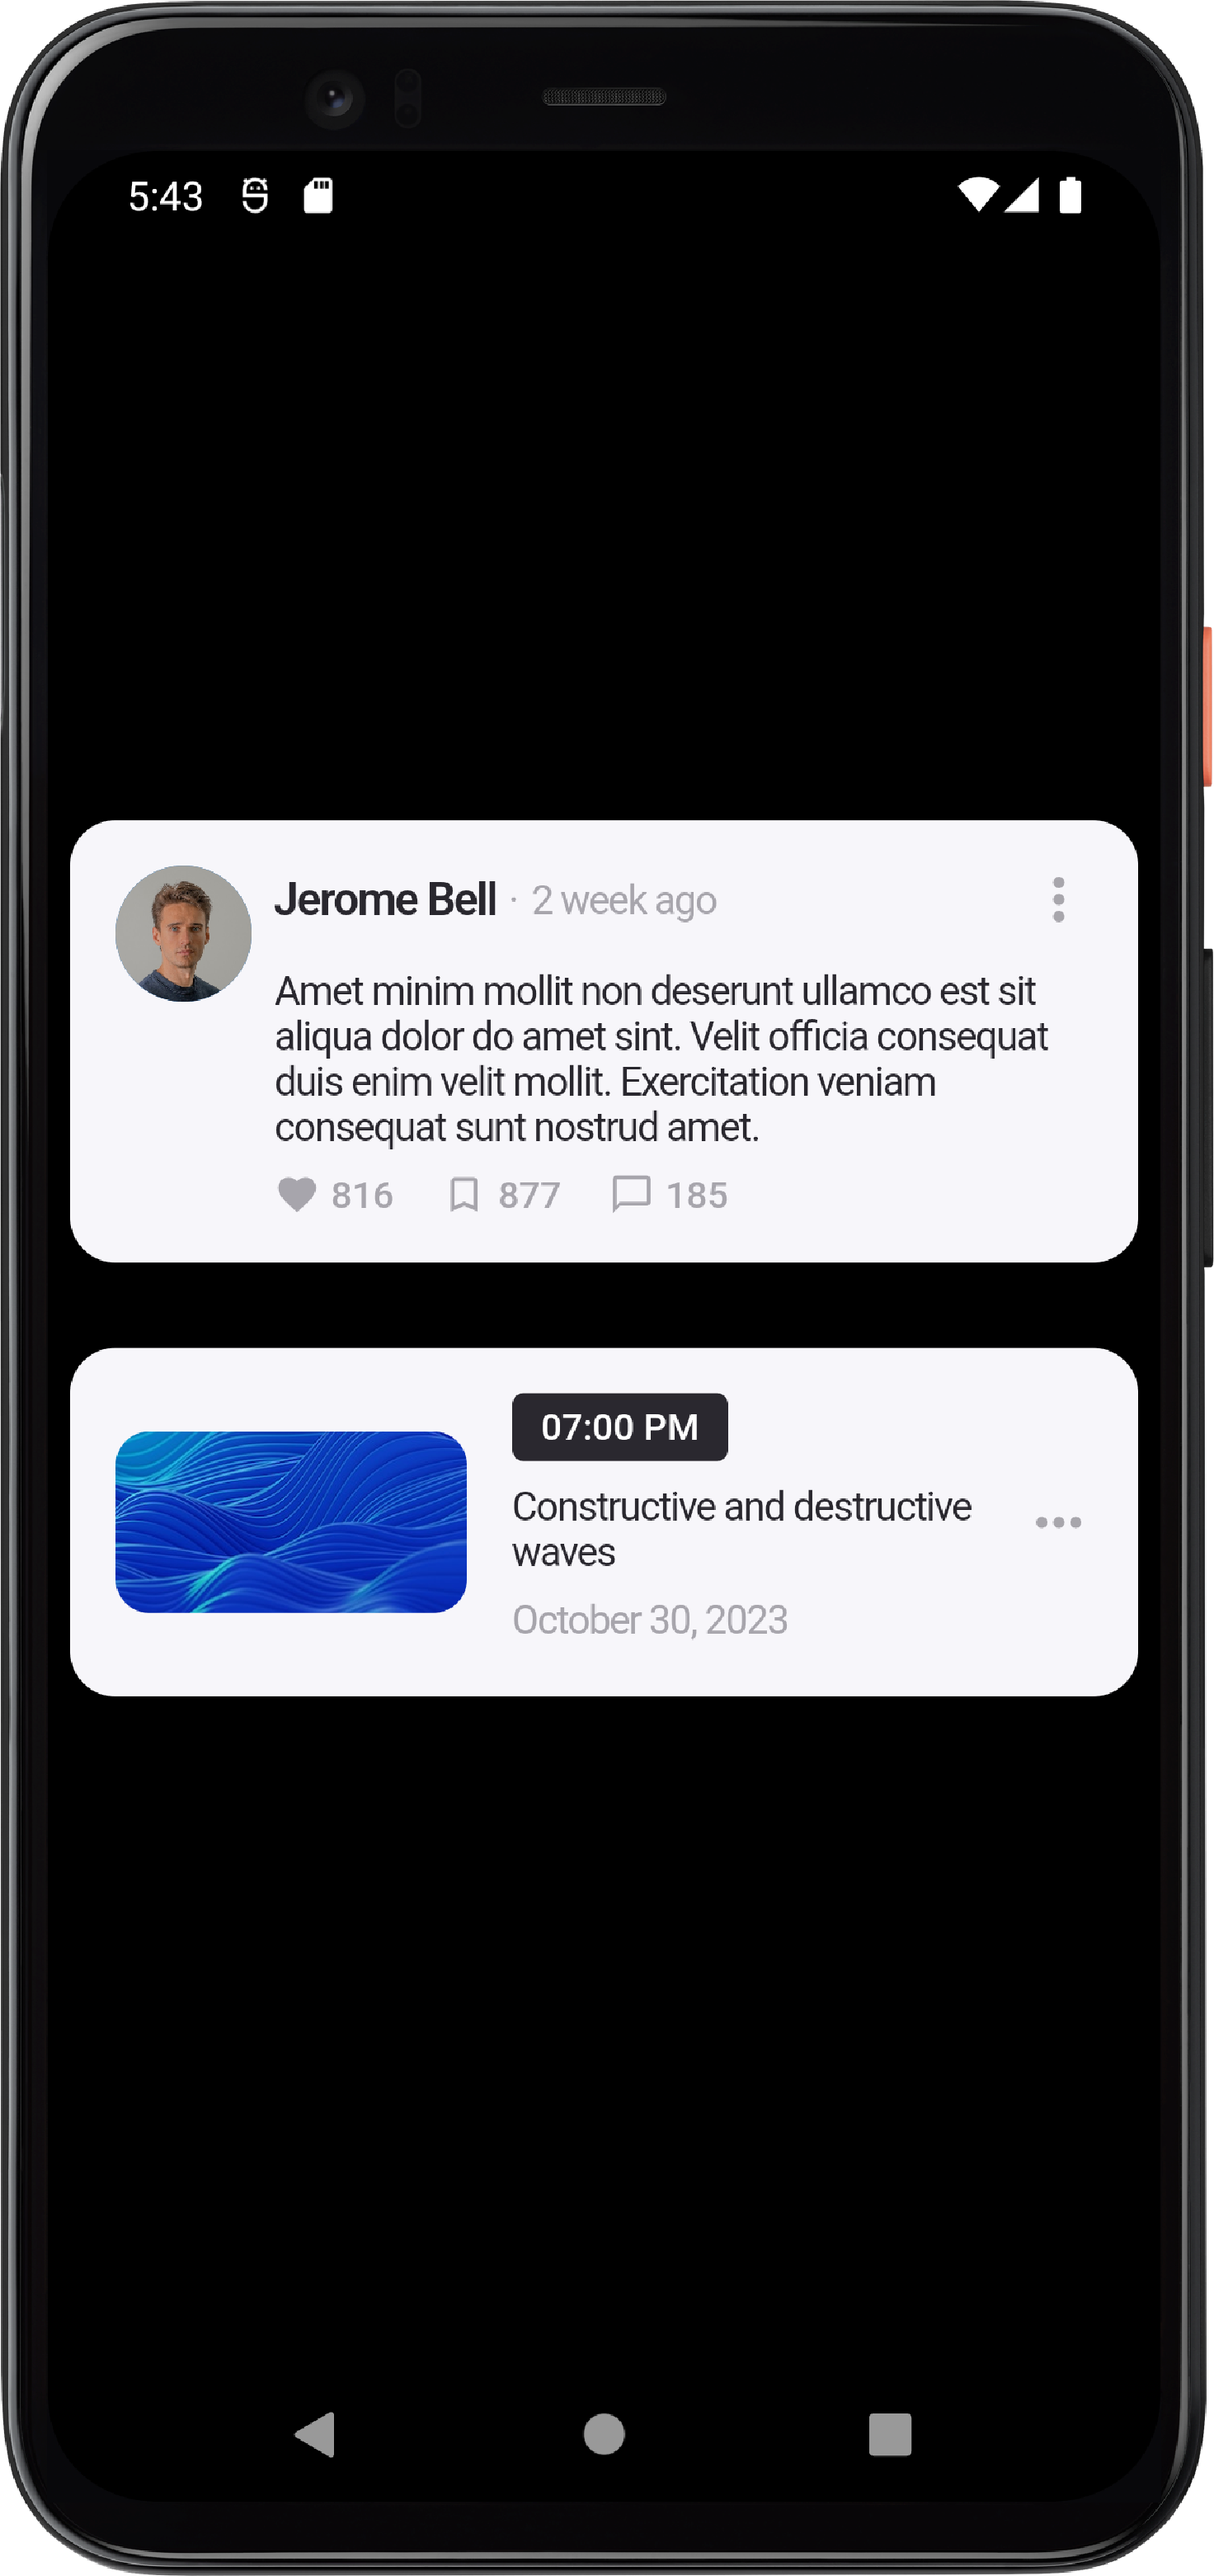
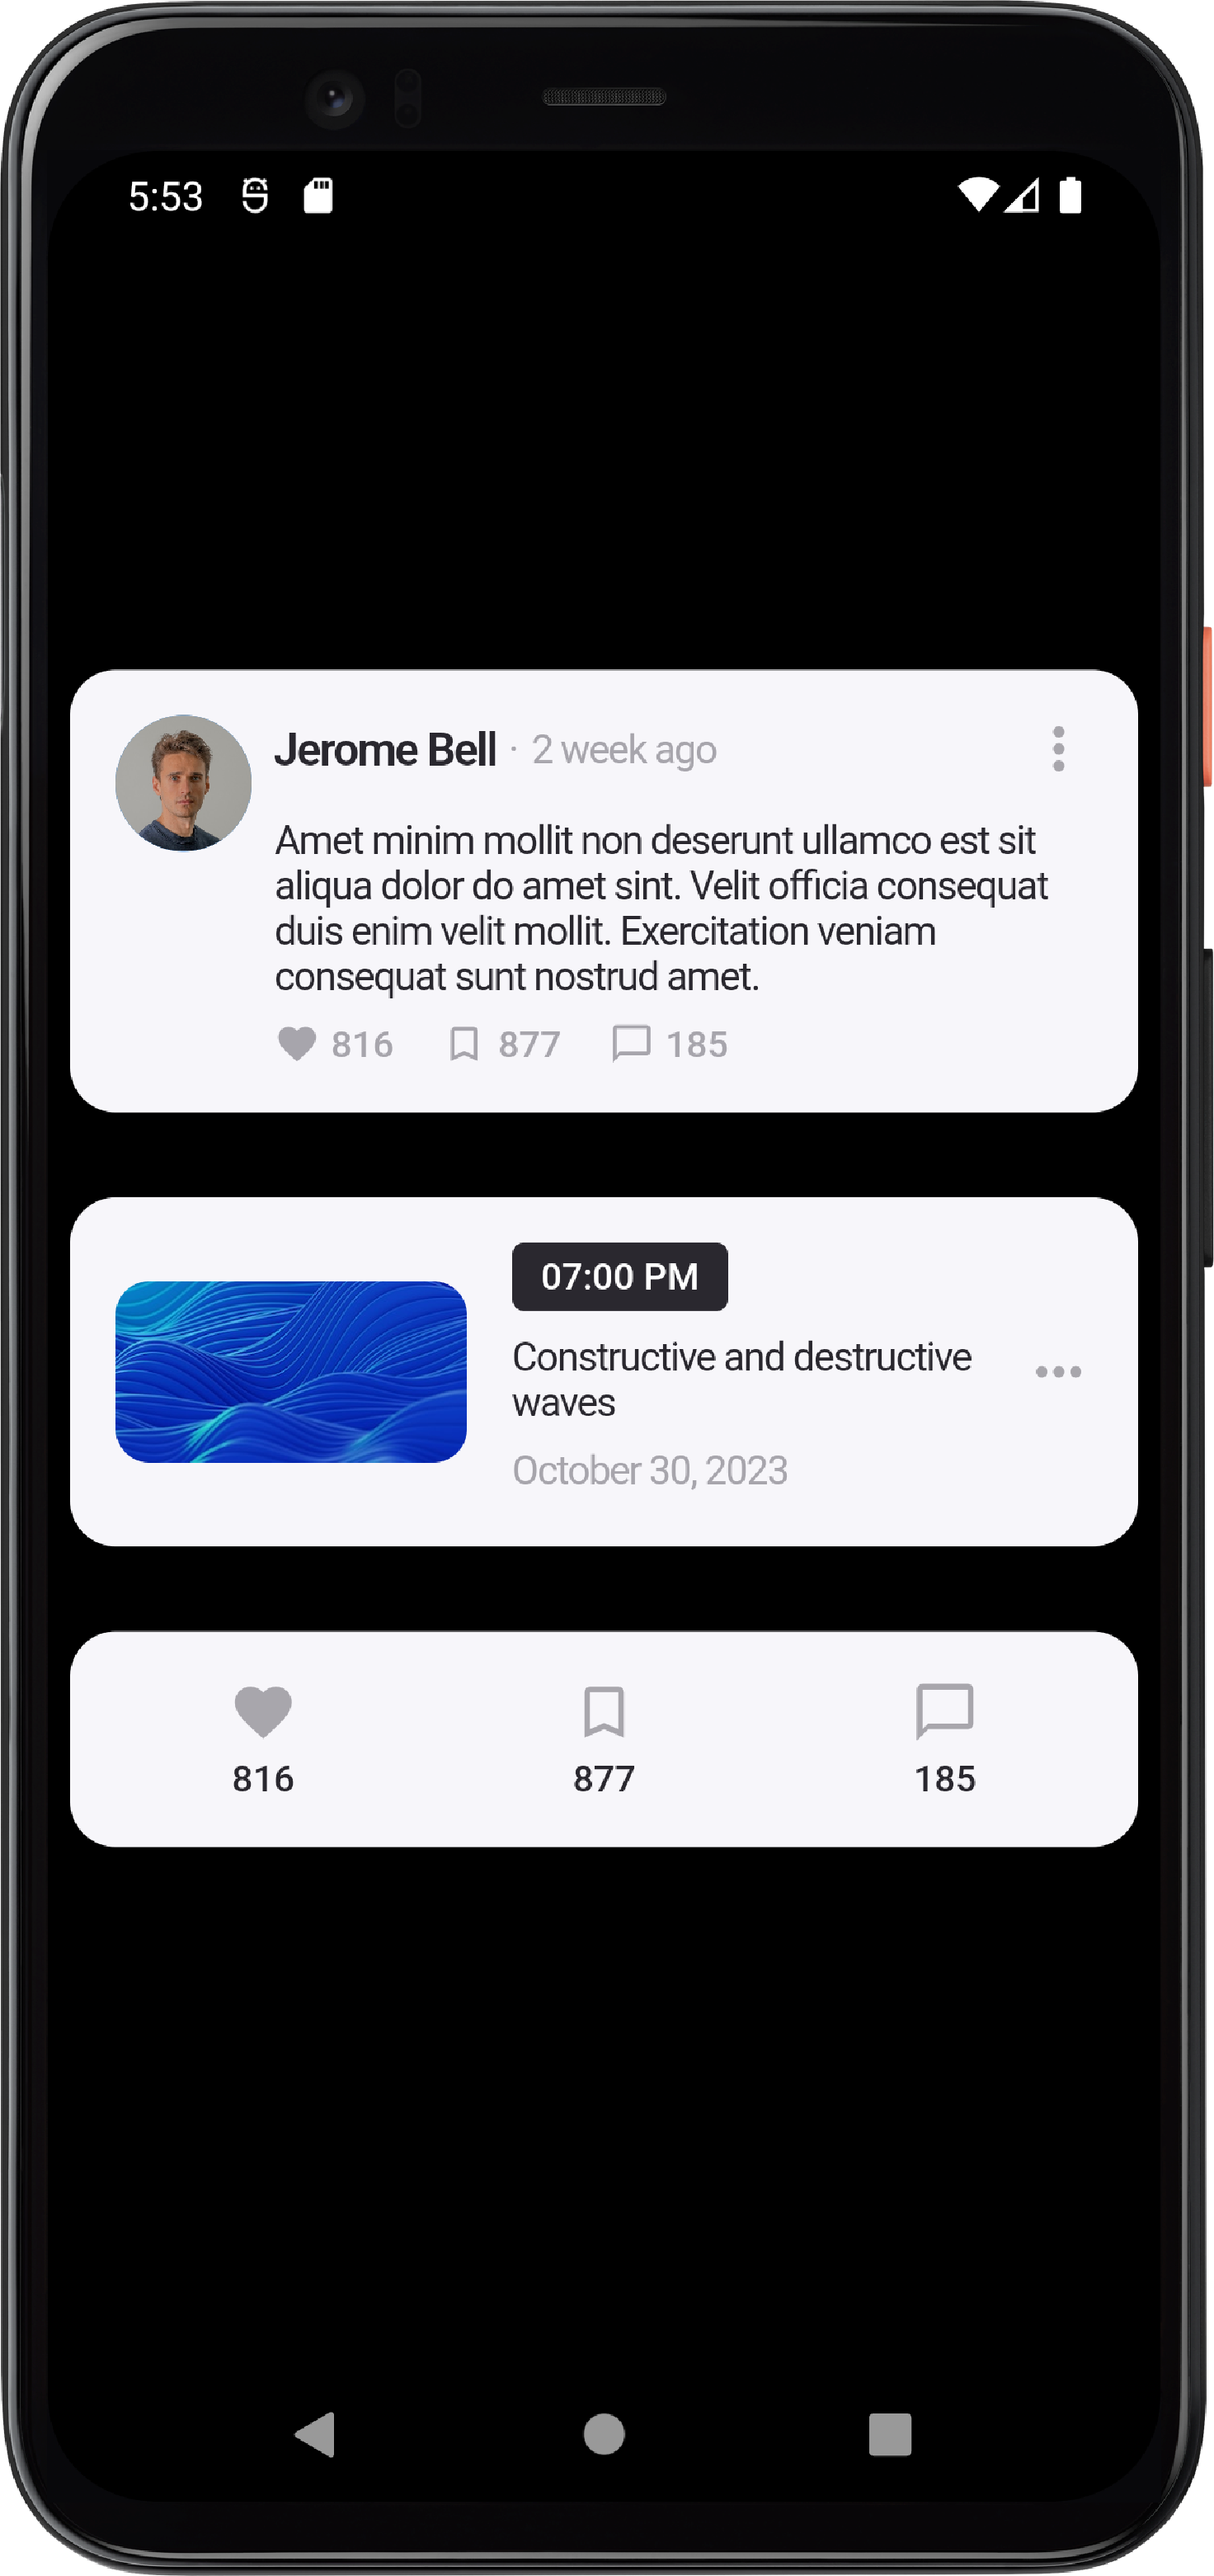
add card 9

Changed region(s): [[0.0312, 0.2486, 0.9375, 0.7146], [0.125, 0.0621, 0.1562, 0.0932]]

diff --git a/lib/Cards/card_9.dart b/lib/Cards/card_9.dart
@@ -1,0 +1,79 @@
+import 'package:flutter/material.dart';
+import 'package:gap/gap.dart';
+class Card9 extends StatelessWidget {
+  const Card9({Key? key}) : super(key: key);
+
+  @override
+  Widget build(BuildContext context) {
+    return Container(
+      height: 76,
+      width: double.infinity,
+      padding: const EdgeInsets.all(16),
+      decoration: BoxDecoration(
+        color: const Color(0xFFF7F6FA),
+        borderRadius: BorderRadius.circular(16)
+      ),
+      child: const Row(
+        children: [
+          Expanded(child:  Column(
+            mainAxisAlignment: MainAxisAlignment.center,
+            children: [
+              Icon(Icons.favorite,color: Color(0xFFA8A6AC),size: 24,),
+              Gap(4),
+              Text(
+                '816',
+                textAlign: TextAlign.center,
+                style: TextStyle(
+                  color: Color(0xFF29272E),
+                  fontSize: 13,
+                  fontFamily: 'Inter',
+                  fontWeight: FontWeight.w500,
+                  height: 0,
+                ),
+              )
+            ],
+          )),
+         Gap(16),
+          Expanded(child:  Column(
+            mainAxisAlignment: MainAxisAlignment.center,
+            children: [
+              Icon(Icons.bookmark_border,color: Color(0xFFA8A6AC),size: 24,),
+              Gap(4),
+              Text(
+                '877',
+                textAlign: TextAlign.center,
+                style: TextStyle(
+                  color: Color(0xFF29272E),
+                  fontSize: 13,
+                  fontFamily: 'Inter',
+                  fontWeight: FontWeight.w500,
+                  height: 0,
+                ),
+              )
+            ],
+          )),
+          Gap(16),
+          Expanded(child:  Column(
+            mainAxisAlignment: MainAxisAlignment.center,
+            children: [
+              Icon(Icons.chat_bubble_outline,color: Color(0xFFA8A6AC),size: 24,),
+              Gap(4),
+              Text(
+                '185',
+                textAlign: TextAlign.center,
+                style: TextStyle(
+                  color: Color(0xFF29272E),
+                  fontSize: 13,
+                  fontFamily: 'Inter',
+                  fontWeight: FontWeight.w500,
+                  height: 0,
+                ),
+              )
+            ],
+          )),
+
+        ],
+      ),
+    );
+  }
+}

diff --git a/lib/Screens/view2.dart b/lib/Screens/view2.dart
@@ -1,6 +1,7 @@
 import 'package:flutter/material.dart';
 import 'package:flutter_ui_card_collections/Cards/card_7.dart';
 import 'package:flutter_ui_card_collections/Cards/card_8.dart';
+import 'package:flutter_ui_card_collections/Cards/card_9.dart';
 import 'package:gap/gap.dart';
 class View2 extends StatelessWidget {
   const View2({Key? key}) : super(key: key);
@@ -16,7 +17,9 @@ class View2 extends StatelessWidget {
           children: [
             Card7(),
             Gap(30),
-            Card8()
+            Card8(),
+            Gap(30),
+            Card9()
 
           ],
         ),
